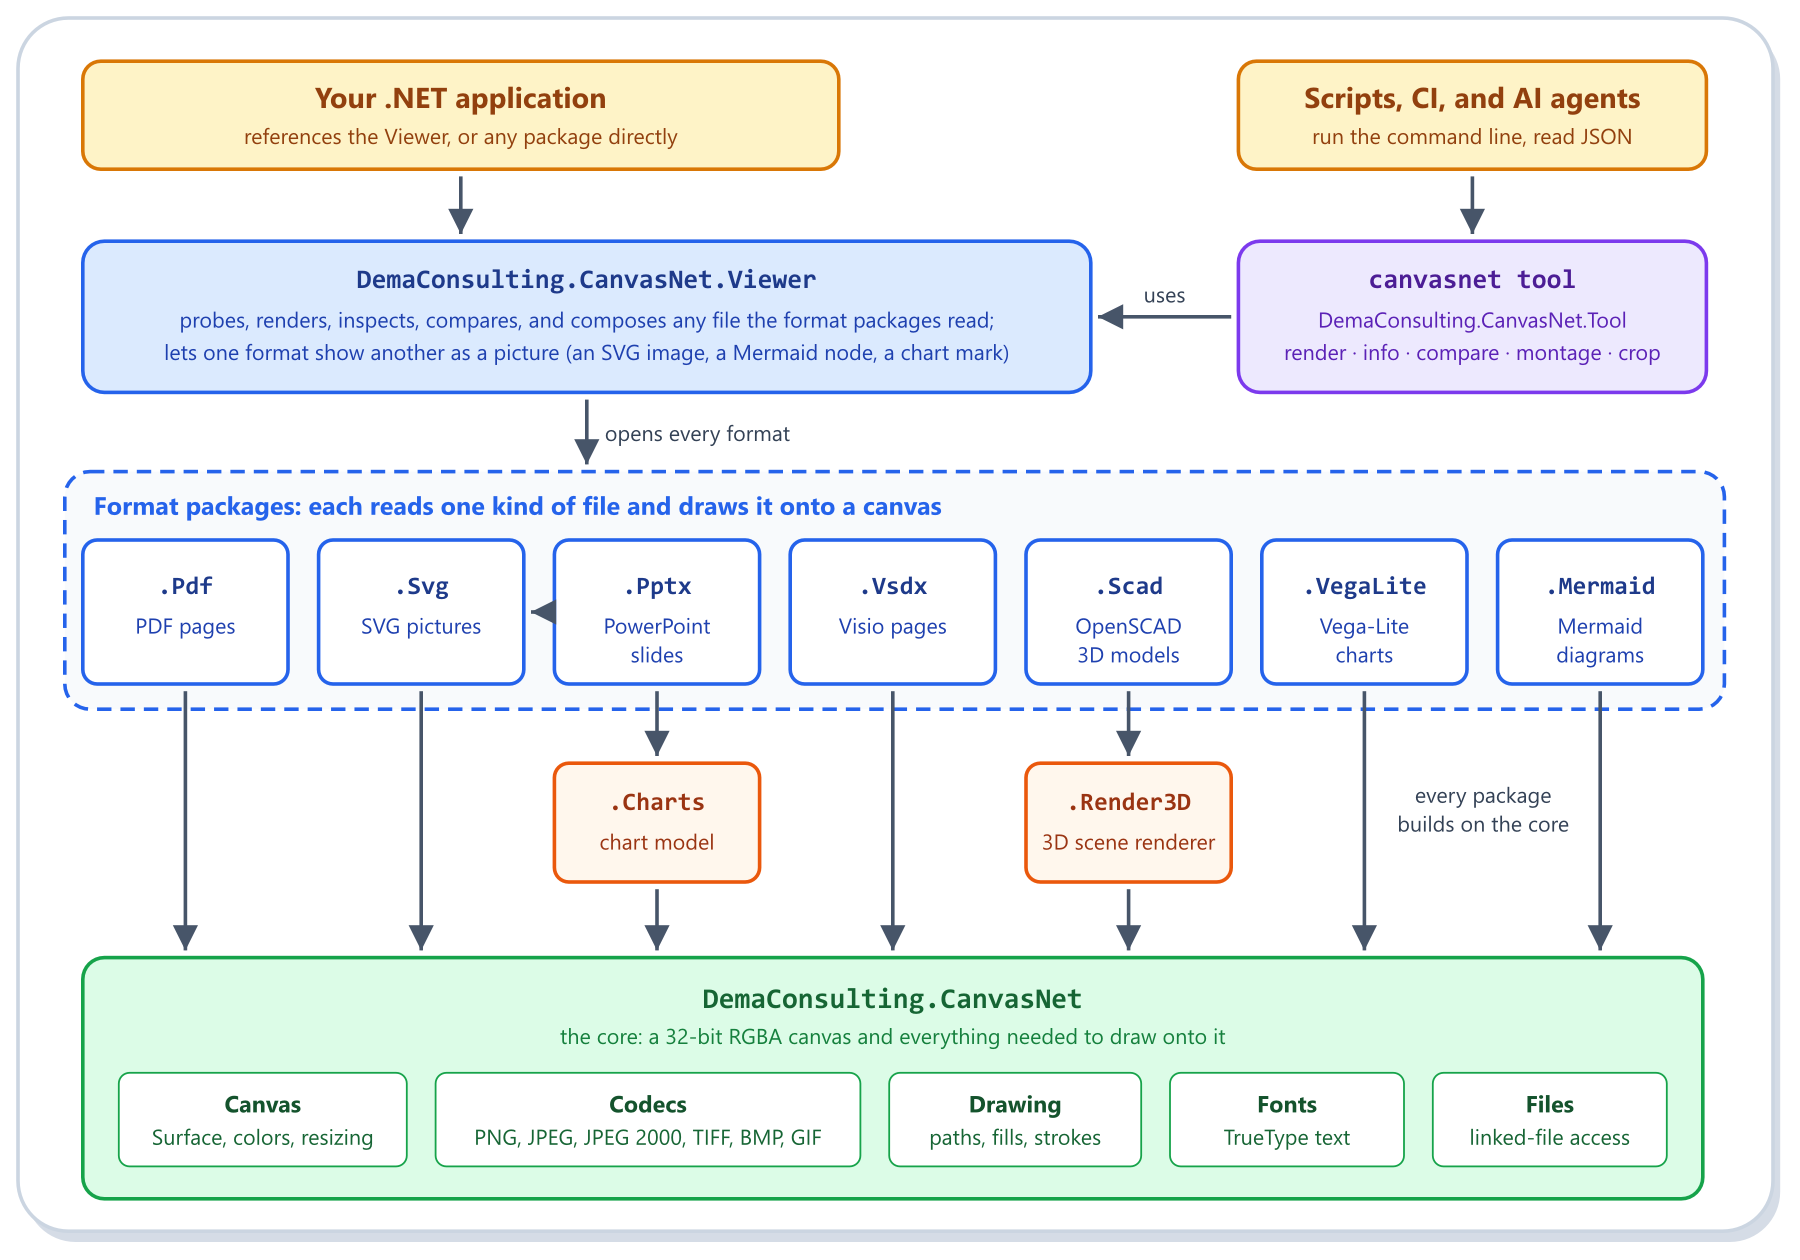
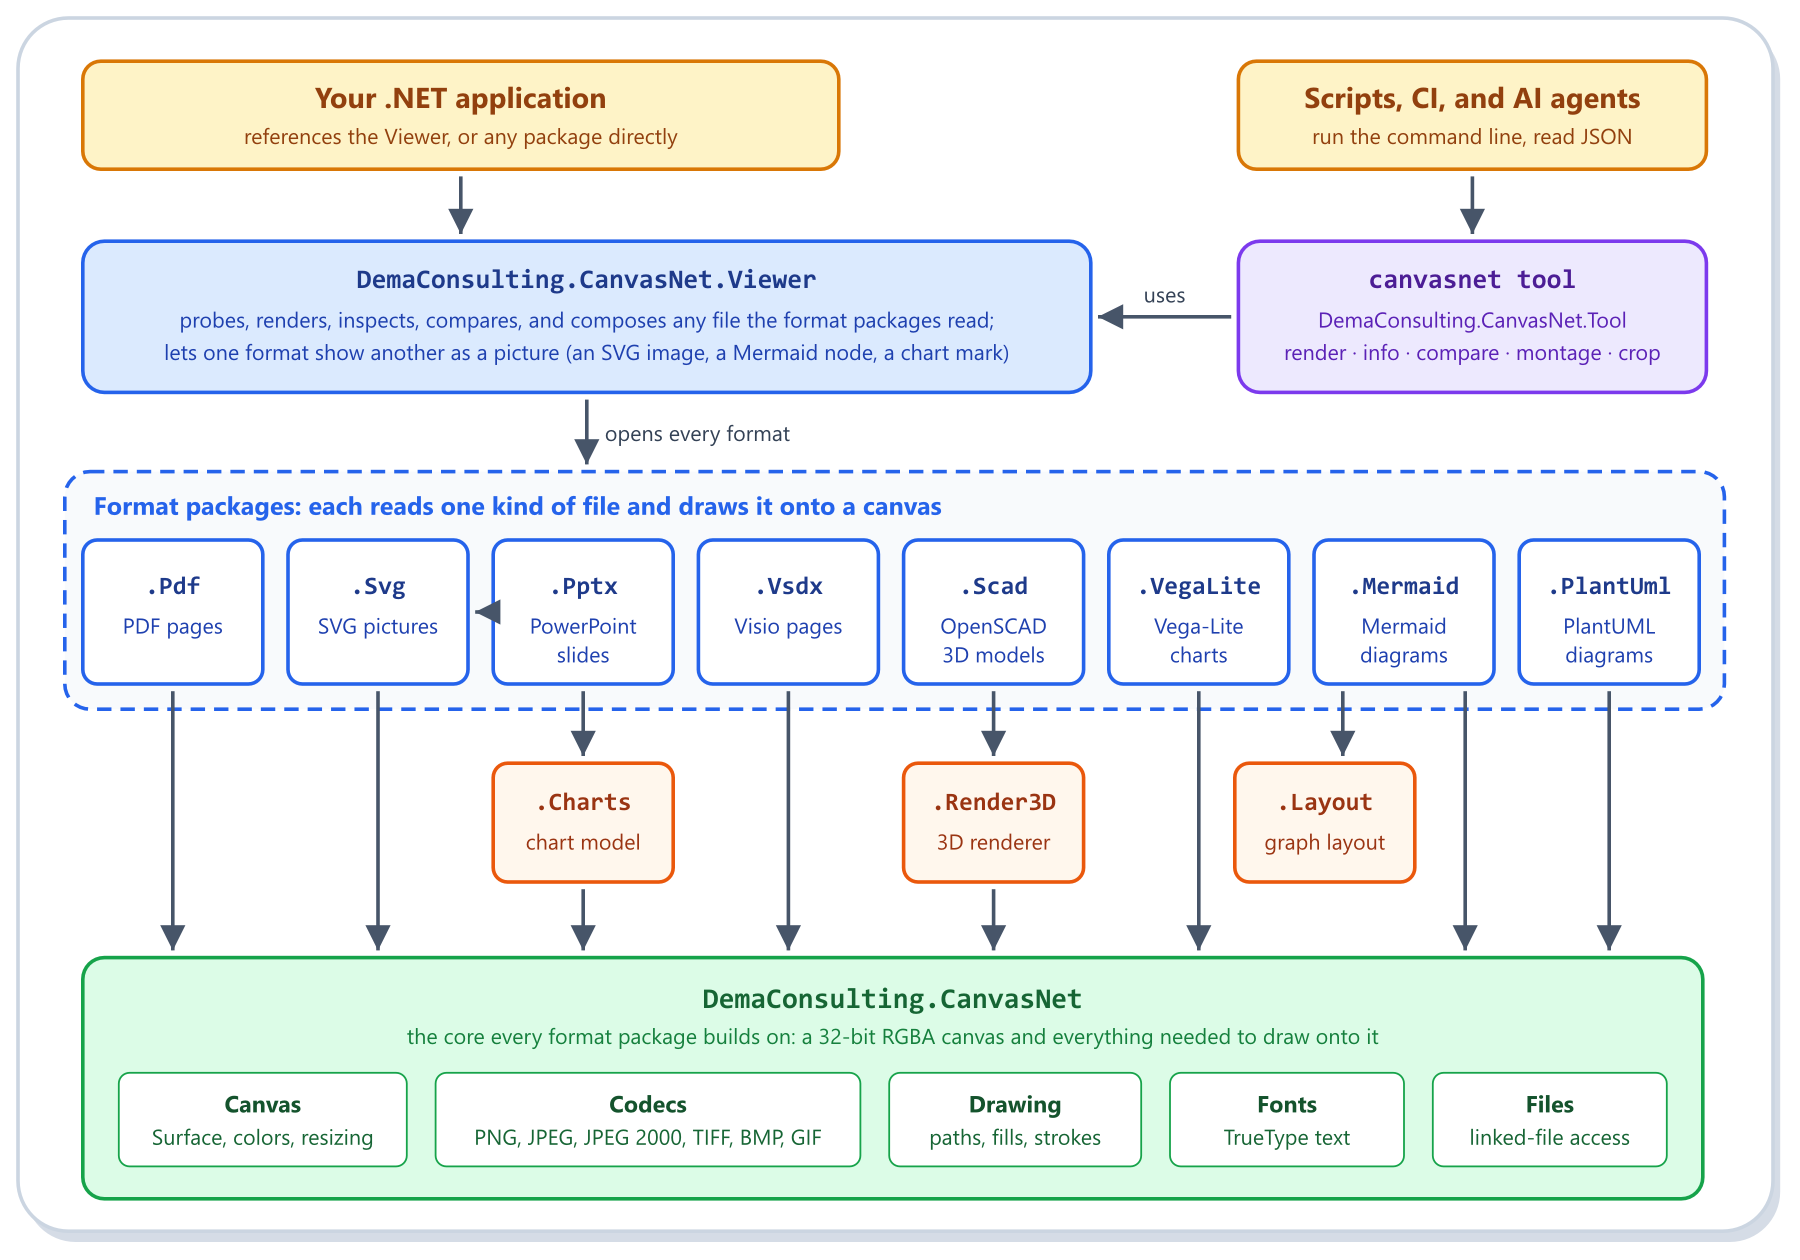
Layout: README, architecture diagram, user guide, and AGENTS.md
- README: list DemaConsulting.CanvasNet.Layout in the installation table
  (installed with Mermaid, no public API), describe the three shared
  building blocks, and give the Layout package its own license paragraph
  and third-party link (the dagre, graphlib and lodash ports now live there).
- Architecture diagram: add the .Layout building block used by .Mermaid
  (with no arrow to the core, which it does not reference) and the missing
  .PlantUml format package, so the diagram matches the package list; the
  caption moves into the core box. architecture.png is regenerated with
  render-images.ps1, and the alt texts of the README, user guide and design
  introduction describe the new picture.
- User guide: the Mermaid package depends on the core and the Layout package;
  its attribution points to the Layout provenance for the layout ports.
- AGENTS.md: the Layout project in the tree, fourteen projects, a Layout row
  in the scoped test table, and the core row excluding Layout.Tests, as
  build.ps1 computes them.

diff --git a/README.md b/README.md
@@ -197,6 +197,7 @@ the ones you need, the same way as above:
 | `DemaConsulting.CanvasNet.Render3D` | 3D mesh/scene rasterization |
 | `DemaConsulting.CanvasNet.Scad` | OpenSCAD-language model rendering |
 | `DemaConsulting.CanvasNet.VegaLite` | Vega-Lite static chart rendering |
+| `DemaConsulting.CanvasNet.Layout` | Shared graph layout (dagre); installed with Mermaid, no public API |
 | `DemaConsulting.CanvasNet.Mermaid` | Mermaid diagrams, mindmaps, packets, git graphs |
 | `DemaConsulting.CanvasNet.PlantUml` | PlantUML sequence and activity diagrams |
 | `DemaConsulting.CanvasNet.Viewer` | The `canvasnet` operations as library calls |
@@ -682,10 +683,10 @@ Vega-Lite chart rendering, Mermaid and PlantUML diagram rendering, and SVG and J
 ## Architecture
 
 CanvasNet is a family of packages: a core canvas with image codecs, drawing, and fonts, a package for each format it
-reads, a Viewer that opens any of them, and the `canvasnet` tool that bundles them all. The diagram shows which
-package builds on which.
+reads, three shared building blocks (charts, 3D rendering, and graph layout), a Viewer that opens any of them, and the
+`canvasnet` tool that bundles them all. The diagram shows which package builds on which.
 
-![CanvasNet package architecture: applications use the Viewer and the canvasnet tool uses it too; the Viewer opens the seven format packages (PDF, SVG, PowerPoint, Visio, OpenSCAD, Vega-Lite, and Mermaid); PowerPoint also uses the SVG and Charts packages and OpenSCAD uses the Render3D package; every package builds on the DemaConsulting.CanvasNet core with its canvas, codecs, drawing, fonts, and file access](https://raw.githubusercontent.com/demaconsulting/CanvasNet/main/docs/images/architecture.png)
+![CanvasNet package architecture: applications use the Viewer and the canvasnet tool uses it too; the Viewer opens the eight format packages (PDF, SVG, PowerPoint, Visio, OpenSCAD, Vega-Lite, Mermaid, and PlantUML); PowerPoint also uses the SVG and Charts packages, OpenSCAD uses the Render3D package, and Mermaid uses the Layout package (the shared graph layout, which needs only .NET); the format packages build on the DemaConsulting.CanvasNet core with its canvas, codecs, drawing, fonts, and file access](https://raw.githubusercontent.com/demaconsulting/CanvasNet/main/docs/images/architecture.png)
 
 ## Building
 
@@ -746,21 +747,28 @@ plasma (CC0, by Nathaniel J. Smith, Stefan van der Walt, and Eric Firing). The l
 license texts and the record of what was ported from where. The package is not affiliated with or endorsed by the
 Vega project, the Vega-Lite project, the d3 project, or the University of Washington Interactive Data Lab.
 
-The `DemaConsulting.CanvasNet.Mermaid` package (and the `canvasnet` tool, which bundles it) implements the Mermaid
-text language and contains code ported, with attribution, from mermaid (MIT, Copyright (c) 2014 - 2022 Knut
-Sveidqvist), dagre-d3-es and the dagre and graphlib libraries it derives from (MIT, Copyright (c) 2012-2014 Chris
-Pettitt and the dagre-es contributors), js-yaml (MIT, Copyright (C) 2011-2015 by Vitaly Puzrin), khroma (MIT,
-Copyright (c) 2019-present Fabio Spampinato, Andrew Maney), lodash (MIT, Copyright OpenJS Foundation and other
-contributors), marked (MIT, Copyright (c) 2018+, MarkedJS; Copyright (c) 2011-2018, Christopher Jeffrey),
-@mermaid-js/parser (MIT, Copyright (c) 2023 Yokozuna59), Langium (MIT, Copyright 2021 TypeFox GmbH), dayjs (MIT,
-Copyright (c) 2018-present, iamkun), sanitize-url (MIT, Copyright (c) 2017 Braintree), layout-base (MIT, Copyright (c)
-2019 iVis@Bilkent), cose-base (MIT, Copyright (c) 2019 - present, iVis@Bilkent), cytoscape (MIT, Copyright (c)
-2016-2026, The Cytoscape Consortium), cytoscape-cose-bilkent (MIT, Copyright (c) 2016-2018, The Cytoscape Consortium),
-and the d3 modules d3-shape, d3-path, d3-scale, d3-time, d3-time-format, d3-array, d3-interpolate, and d3-axis (ISC,
-Copyright 2010-2023 Mike Bostock). The license texts ship in the packages under `licenses/`; see
-[the third-party notice][link-mermaid-third-party] (`src/DemaConsulting.CanvasNet.Mermaid/third-party`) for the
-record of what was ported from where. The package is not affiliated with or endorsed by the Mermaid project or the
-authors of these libraries.
+The `DemaConsulting.CanvasNet.Mermaid` package (and the `canvasnet` tool, which bundles it) implements the Mermaid text
+language and contains code ported, with attribution, from mermaid (MIT, Copyright (c) 2014 - 2022 Knut Sveidqvist),
+dagre-d3 (MIT, Copyright (c) 2013 Chris Pettitt and the dagre-es contributors), js-yaml (MIT, Copyright (C) 2011-2015 by
+Vitaly Puzrin), khroma (MIT, Copyright (c) 2019-present Fabio Spampinato, Andrew Maney), lodash (MIT, Copyright OpenJS
+Foundation and other contributors), marked (MIT, Copyright (c) 2018+, MarkedJS; Copyright (c) 2011-2018, Christopher
+Jeffrey), @mermaid-js/parser (MIT, Copyright (c) 2023 Yokozuna59), Langium (MIT, Copyright 2021 TypeFox GmbH), dayjs
+(MIT, Copyright (c) 2018-present, iamkun), sanitize-url (MIT, Copyright (c) 2017 Braintree), layout-base (MIT,
+Copyright (c) 2019 iVis@Bilkent), cose-base (MIT, Copyright (c) 2019 - present, iVis@Bilkent), cytoscape (MIT,
+Copyright (c) 2016-2026, The Cytoscape Consortium), cytoscape-cose-bilkent (MIT, Copyright (c) 2016-2018, The Cytoscape
+Consortium), and the d3 modules d3-shape, d3-path, d3-scale, d3-time, d3-time-format, d3-array, d3-interpolate, and
+d3-axis (ISC, Copyright 2010-2023 Mike Bostock). The license texts ship in the packages under `licenses/`; see
+[the third-party notice][link-mermaid-third-party] (`src/DemaConsulting.CanvasNet.Mermaid/third-party`) for the record
+of what was ported from where. The package is not affiliated with or endorsed by the Mermaid project or the authors of
+these libraries.
+
+The `DemaConsulting.CanvasNet.Layout` package (installed with the Mermaid package, and bundled in the `canvasnet`
+tool) is the shared graph layout of the diagram packages and contains code ported, with attribution, from dagre-d3-es
+and the dagre and graphlib libraries it derives from (MIT, Copyright (c) 2012-2014 Chris Pettitt and the dagre-es
+contributors) and from lodash (MIT, Copyright OpenJS Foundation and other contributors). The license texts ship in the
+package under `licenses/`; see [the third-party notice][link-layout-third-party]
+(`src/DemaConsulting.CanvasNet.Layout/third-party`) for the record of what was ported from where. The package is not
+affiliated with or endorsed by the authors of these libraries.
 
 The `DemaConsulting.CanvasNet.PlantUml` package (and the `canvasnet` tool, which bundles it) implements a subset of
 the PlantUML text language and is derived, with attribution, from the MIT-licensed distribution of PlantUML (MIT,
@@ -797,6 +805,7 @@ record of what was ported from where. The package is not affiliated with or endo
 [link-releases]: https://github.com/demaconsulting/CanvasNet/releases
 [link-vegalite-third-party]: https://github.com/demaconsulting/CanvasNet/tree/main/src/DemaConsulting.CanvasNet.VegaLite/third-party
 [link-mermaid-third-party]: https://github.com/demaconsulting/CanvasNet/tree/main/src/DemaConsulting.CanvasNet.Mermaid/third-party
+[link-layout-third-party]: https://github.com/demaconsulting/CanvasNet/tree/main/src/DemaConsulting.CanvasNet.Layout/third-party
 [link-plantuml-third-party]: https://github.com/demaconsulting/CanvasNet/tree/main/src/DemaConsulting.CanvasNet.PlantUml/third-party
 [link-issues]: https://github.com/demaconsulting/CanvasNet/issues
 [link-discussions]: https://github.com/demaconsulting/CanvasNet/discussions

diff --git a/docs/user_guide/canvas-net-mermaid.md b/docs/user_guide/canvas-net-mermaid.md
@@ -5,8 +5,9 @@
 ### MermaidDocument
 
 `MermaidDocument` (namespace `DemaConsulting.CanvasNet.Mermaid`) is distributed via the separate
-`DemaConsulting.CanvasNet.Mermaid` NuGet package, whose only dependency is the core `DemaConsulting.CanvasNet`
-package - see the Installation section of the project README. It reads diagrams written in the Mermaid v11 text
+`DemaConsulting.CanvasNet.Mermaid` NuGet package, whose dependencies are the core `DemaConsulting.CanvasNet` package
+and the shared graph layout `DemaConsulting.CanvasNet.Layout` (installed with it; it has no public API) - see the
+Installation section of the project README. It reads diagrams written in the Mermaid v11 text
 language and draws them as **static pictures** with Mermaid's own layout: a flowchart, a class diagram, a state
 diagram, and an entity relationship diagram are laid out by a port of the dagre layout that Mermaid uses, a sequence
 diagram by a port of Mermaid's sequence renderer, a pie chart and a gantt chart by ports of Mermaid's pie and gantt
@@ -1202,14 +1203,16 @@ ports of these projects (all MIT unless stated):
 - **Langium** (Copyright 2021 TypeFox GmbH): the token order and the string and number conversion of the pie, packet,
   and git graph parsers;
 - **dagre-d3-es**, derived from **dagre** and **graphlib** (Copyright (c) 2012-2014 Chris Pettitt and the dagre-es
-  contributors): the graph and the layered layout;
+  contributors): the graph and the layered layout (in the `DemaConsulting.CanvasNet.Layout` package that this package
+  uses) and the node intersections;
 - **layout-base** (Copyright (c) 2019 iVis@Bilkent) and **cose-base** (Copyright (c) 2019 - present, iVis@Bilkent):
   the force-directed layout of mindmaps;
 - **cytoscape-cose-bilkent** (Copyright (c) 2016-2018, The Cytoscape Consortium) and **cytoscape** (Copyright (c)
   2016-2026, The Cytoscape Consortium): the layout options of mindmaps and the points of their edges;
 - **js-yaml** (Copyright (C) 2011-2015 by Vitaly Puzrin): the YAML reader of the frontmatter and shape data;
 - **khroma** (Copyright (c) 2019-present Fabio Spampinato, Andrew Maney): the color functions of the themes;
-- **lodash** (Copyright OpenJS Foundation and other contributors): the sort and extremum rules the layout depends on;
+- **lodash** (Copyright OpenJS Foundation and other contributors): the sort and extremum rules the layout depends on
+  (in the `DemaConsulting.CanvasNet.Layout` package) and the merge of the configuration;
 - **marked** (Copyright (c) 2018+, MarkedJS; Copyright (c) 2011-2018, Christopher Jeffrey): the Markdown of labels;
 - **dayjs** (Copyright (c) 2018-present, iamkun): the date parsing, formatting, and arithmetic of gantt charts;
 - **d3** (ISC, Copyright 2010-2023 Mike Bostock): d3-shape and d3-path for the edge curves and the pie slices,
@@ -1219,9 +1222,10 @@ ports of these projects (all MIT unless stated):
   sequence, state, and gantt diagrams keep, which are never drawn.
 
 The license texts ship in the NuGet packages under `licenses/` (also for the `canvasnet` tool, which bundles the
-assembly), and `src/DemaConsulting.CanvasNet.Mermaid/third-party/README.md` records what was ported, from which
-version, and by which unit. The package is **not affiliated with, endorsed by, or promoted by** the Mermaid project or
-the authors of these libraries; the names are used only to describe the language that is implemented.
+assembly), and `src/DemaConsulting.CanvasNet.Mermaid/third-party/README.md` records what was ported, from which version,
+and by which unit (for the graph and the layered layout, `src/DemaConsulting.CanvasNet.Layout/third-party/README.md`).
+The package is **not affiliated with, endorsed by, or promoted by** the Mermaid project or the authors of these
+libraries; the names are used only to describe the language that is implemented.
 
 ### Using As An Embedded Image
 

diff --git a/AGENTS.md b/AGENTS.md
@@ -29,6 +29,7 @@
 ├── src/
 │   ├── DemaConsulting.CanvasNet/
 │   ├── DemaConsulting.CanvasNet.Charts/
+│   ├── DemaConsulting.CanvasNet.Layout/
 │   ├── DemaConsulting.CanvasNet.Mermaid/
 │   ├── DemaConsulting.CanvasNet.Pdf/
 │   ├── DemaConsulting.CanvasNet.PlantUml/
@@ -200,7 +201,7 @@ reqstream, versionmark, reviewmark, and sysml2tools.
 
 # Scoped Validation (ALL Agents Must Follow)
 
-The solution has thirteen source projects and thirteen test projects, and a full `pwsh ./build.ps1` builds and
+The solution has fourteen source projects and fourteen test projects, and a full `pwsh ./build.ps1` builds and
 tests all of them. While developing, build, test, fix, and lint **only what the change affects**; run the
 full build and full lint once before a pull request. The scripts compute the scope from the files changed
 since `origin/main` (or `-Base <ref>`) plus uncommitted and untracked files:
@@ -240,7 +241,7 @@ selects these test projects:
 
 | Changed project | Test projects to run (all under `test/`) |
 | --- | --- |
-| `DemaConsulting.CanvasNet` (core) | **All** test projects (every other project depends on it) |
+| `DemaConsulting.CanvasNet` (core) | **All** test projects except `Layout.Tests` (Layout references no project) |
 | `DemaConsulting.CanvasNet.Svg` | `Svg.Tests`, `Pptx.Tests`, `Viewer.Tests`, `Tool.Tests` |
 | `DemaConsulting.CanvasNet.Charts` | `Charts.Tests`, `Pptx.Tests`, `Viewer.Tests`, `Tool.Tests` |
 | `DemaConsulting.CanvasNet.Pdf` | `Pdf.Tests`, `Viewer.Tests`, `Tool.Tests` |
@@ -249,6 +250,7 @@ selects these test projects:
 | `DemaConsulting.CanvasNet.Render3D` | `Render3D.Tests`, `Scad.Tests`, `Viewer.Tests`, `Tool.Tests` |
 | `DemaConsulting.CanvasNet.Scad` | `Scad.Tests`, `Viewer.Tests`, `Tool.Tests` |
 | `DemaConsulting.CanvasNet.VegaLite` | `VegaLite.Tests`, `Viewer.Tests`, `Tool.Tests` |
+| `DemaConsulting.CanvasNet.Layout` | `Layout.Tests`, `Mermaid.Tests`, `Viewer.Tests`, `Tool.Tests` |
 | `DemaConsulting.CanvasNet.Mermaid` | `Mermaid.Tests`, `Viewer.Tests`, `Tool.Tests` |
 | `DemaConsulting.CanvasNet.PlantUml` | `PlantUml.Tests`, `Viewer.Tests`, `Tool.Tests` |
 | `DemaConsulting.CanvasNet.Viewer` | `Viewer.Tests`, `Tool.Tests` |

diff --git a/docs/design/introduction.md b/docs/design/introduction.md
@@ -497,9 +497,10 @@ and unit of the model, the diagram shows only the NuGet packages, which package 
 applications and the `canvasnet` tool reach them.
 
 ![CanvasNet package architecture: applications use the Viewer and the canvasnet tool uses it too; the Viewer opens
-the seven format packages (PDF, SVG, PowerPoint, Visio, OpenSCAD, Vega-Lite, and Mermaid); PowerPoint also uses the
-SVG and Charts packages and OpenSCAD uses the Render3D package; every package builds on the DemaConsulting.CanvasNet
-core with its canvas, codecs, drawing, fonts, and file access](architecture.svg)
+the eight format packages (PDF, SVG, PowerPoint, Visio, OpenSCAD, Vega-Lite, Mermaid, and PlantUML); PowerPoint also
+uses the SVG and Charts packages, OpenSCAD uses the Render3D package, and Mermaid uses the Layout package (the shared
+graph layout, which needs only .NET); the format packages build on the DemaConsulting.CanvasNet core with its canvas,
+codecs, drawing, fonts, and file access](architecture.svg)
 
 CanvasNet is organized into ten subsystems under the system level: the `Canvas` subsystem
 (the `Surface` unit with its `SurfaceAdjustments`, `SurfaceTransforms`, `SurfaceGeometry`, `SurfaceComparison`, and

diff --git a/docs/user_guide/introduction.md b/docs/user_guide/introduction.md
@@ -10,9 +10,10 @@ alone for images and drawing, add the format packages you need, use the Viewer t
 `canvasnet` command-line tool, which bundles all of them.
 
 ![CanvasNet package architecture: applications use the Viewer and the canvasnet tool uses it too; the Viewer opens
-the seven format packages (PDF, SVG, PowerPoint, Visio, OpenSCAD, Vega-Lite, and Mermaid); PowerPoint also uses the
-SVG and Charts packages and OpenSCAD uses the Render3D package; every package builds on the DemaConsulting.CanvasNet
-core with its canvas, codecs, drawing, fonts, and file access](architecture.svg)
+the eight format packages (PDF, SVG, PowerPoint, Visio, OpenSCAD, Vega-Lite, Mermaid, and PlantUML); PowerPoint also
+uses the SVG and Charts packages, OpenSCAD uses the Render3D package, and Mermaid uses the Layout package (the shared
+graph layout, which needs only .NET); the format packages build on the DemaConsulting.CanvasNet core with its canvas,
+codecs, drawing, fonts, and file access](architecture.svg)
 
 ## Scope
 

diff --git a/docs/images/README.md b/docs/images/README.md
@@ -5,7 +5,7 @@ This folder holds the images used by the project README and the tool user guide.
 ## architecture.png
 
 `architecture.png` (1800x1260) is the package architecture diagram: the core package, the format packages and the
-two shared building blocks they use, the Viewer, and the `canvasnet` tool, with arrows from each package to the
+three shared building blocks they use, the Viewer, and the `canvasnet` tool, with arrows from each package to the
 packages it references. Its source is `architecture.svg` (original to this repository, MIT), which the user guide and
 the design document embed directly; the README shows the PNG by an absolute URL, like `showcase.png`, because the
 README is also shipped inside the NuGet packages. `render-images.ps1` draws it with `--strict` on a transparent
